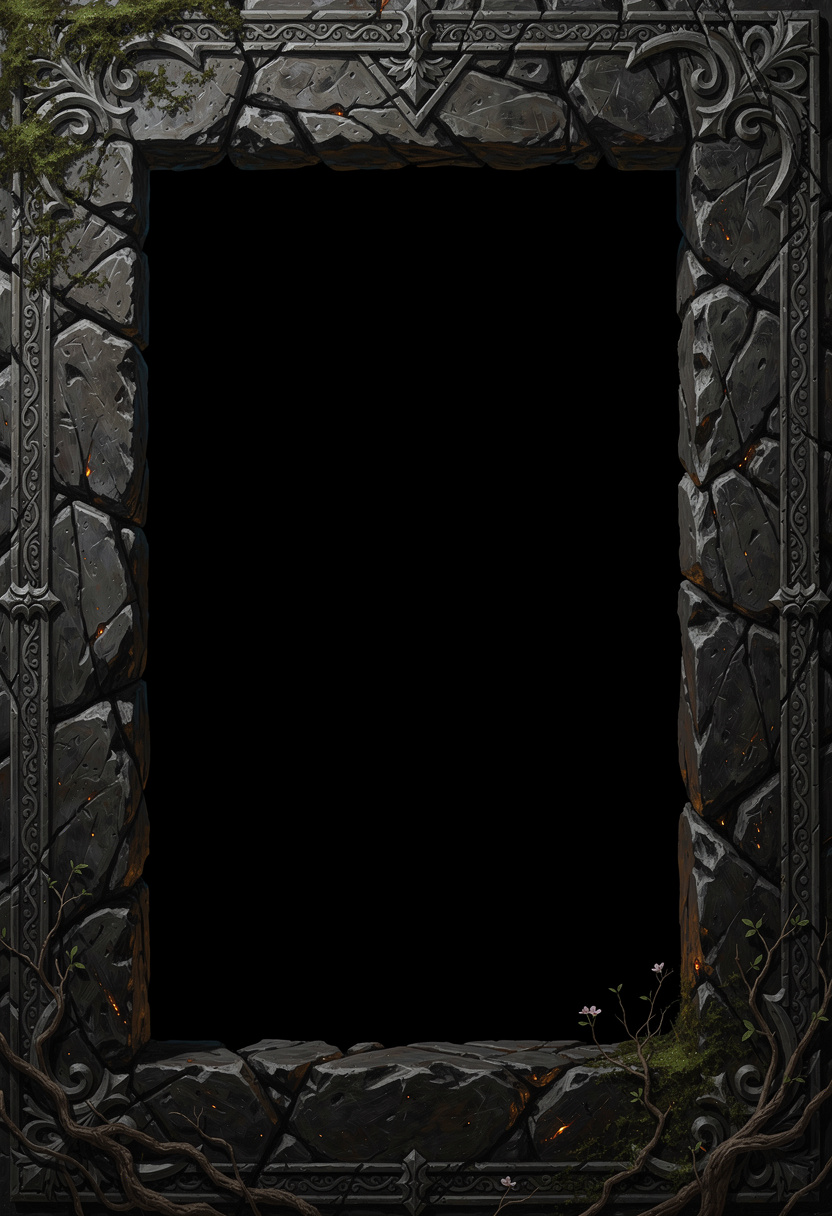
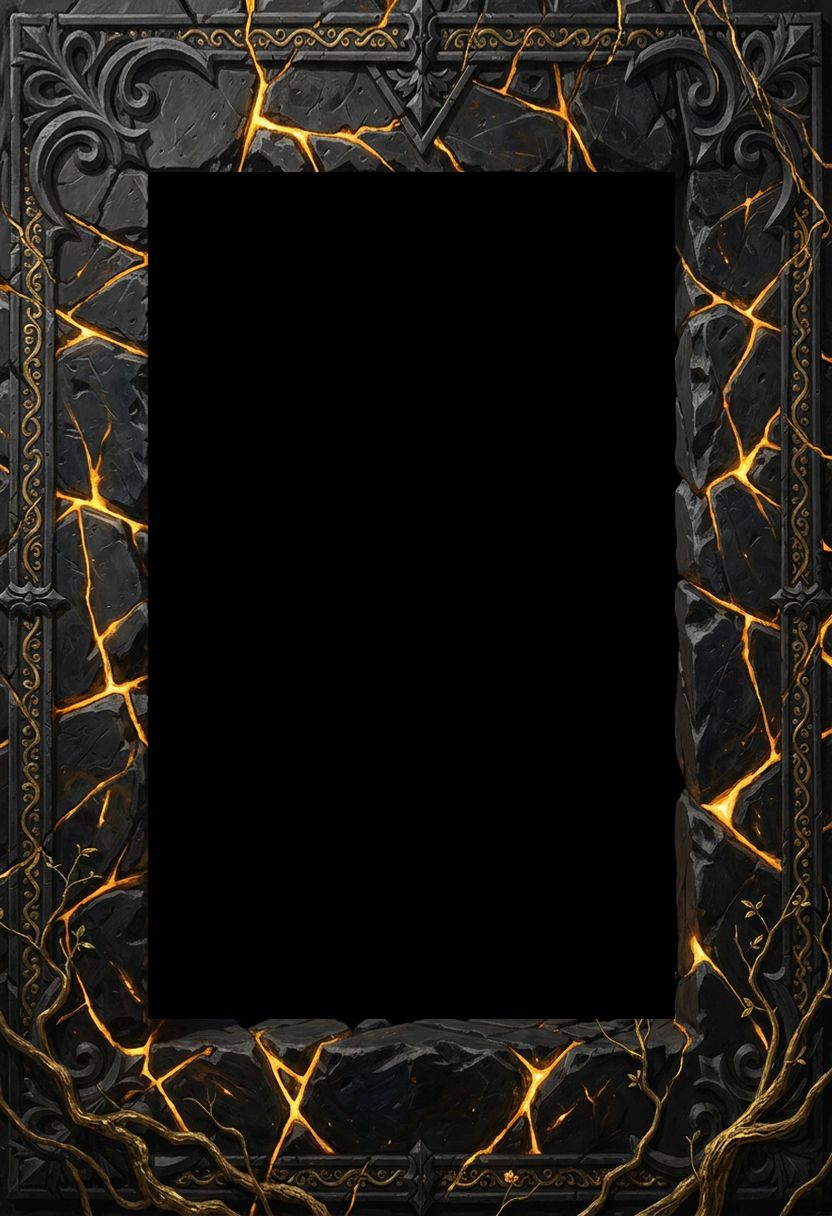
art: card border is OURS_4, basalt and molten gold (Trikzos' pick), cut to the existing 7% nine-slice; queue: PACKET H — text that clips, the hand fan, an art-format gate, and the rest of the APK size

Changed region(s): [[0.0, 0.0, 1.0, 1.0], [0.9375, 0.9688, 0.9688, 1.0]]

diff --git a/TASKS_QUEUE.md b/TASKS_QUEUE.md
@@ -12,6 +12,53 @@
 
 # ---- PHASE A FINISH — VERIFY, THEN SHIP ----
 
+# ---- PACKET H (2026-09-05, from the shipped build's own captures) ----
+
+- [ ] TASK-UI-FIT-1 — The readable-text pass overshot and now text is clipping off the screen. In the
+  duel capture from the shipped build: card names are so large they fill the card, every board card's
+  attack and vigor numerals are cut off by the bottom edge, and the End Turn button reads "End Tur"
+  because it runs off the right edge. Trikzos asked for readable, not broken. Keep the PACKET G sizes
+  as a TARGET, then add the rule that was missing: NOTHING may clip, overflow or overlap at either
+  2316x1080 or 2400x1080. Where a label cannot fit at the target size, it shrinks to fit its box (down
+  to a floor of 24px) rather than the box being overrun; where a control runs off screen, its anchor or
+  margin is wrong and must be fixed, never its text truncated. Card names get the existing name-autofit
+  treatment. Check every screen: title, choose-your-path, map, duel, reward, collection, settings, deck
+  forge, reliquary.
+  Acceptance: fresh captures of all nine screens at BOTH resolutions with nothing clipped — say in the
+  DONE line, screen by screen, what the largest text on it is and that it fits; ui_lint green; the End
+  Turn button fully on screen with its whole label.
+
+- [ ] TASK-DUEL-HAND-1 — AFTER: TASK-UI-FIT-1. The hand fan in the shipped capture shows ten cards
+  spilling past the bottom edge of the screen and overlapping each other so heavily that only the name
+  band of each is visible. Whatever the hand size, the fan must stay fully on screen with each card's
+  art readable — that is the part Trikzos cares about most ("we want the art to be the focus of the
+  hand"). Cap the fan width to the safe area, overlap only as much as needed, and scale the cards down
+  before you let them leave the screen. Do not change how many cards a player draws — this is layout.
+  Acceptance: captures at both resolutions with hands of 5, 8 and 10 cards, all fully on screen, art
+  visible on every card; ui_lint green.
+
+- [ ] TASK-ART-FORMAT-GATE-1 — Make the mistake that cost us a day impossible to repeat. 83 art files
+  were PNG bytes saved under a .webp name; Godot picks its importer by extension, so none of them ever
+  loaded in the game, and every import setting written to them was silently reverted. Add to
+  tools/art_check.py (and call it from finish_task.sh) a check that every file under
+  client/content/art has contents matching its extension — read the magic bytes, do not trust the name
+  — and that its .import file does not say valid=false. Any mismatch fails the gate with the file list.
+  Also fix the source: pipeline/gen_image_any.py writes whatever bytes come back under the requested
+  name, so make it re-encode to the requested format before saving.
+  Acceptance: the check catches a deliberately mislabelled test file and passes on the current tree;
+  finish_task.sh runs it; the DONE line states how many files were checked.
+
+- [ ] TASK-PERF-2 — AFTER: TASK-UI-FIT-1. Get the APK from 224MB to under 160MB. Fable already took it
+  from 310MB by repairing the art and capping imported sizes; what remains, measured from the package:
+  122.4MB of textures, 71.8MB of engine .so (untouchable), 11.6MB of static build libraries and 10.3MB
+  of .dll. Two levers left: (1) the card art cap is 640px —try 512 and compare a duel capture side by
+  side with the 640 one; ship 512 only if the difference is invisible at phone size. (2) the *.a static
+  libraries are still in the package despite an exclude_filter, because they are added by the export
+  step rather than being project files — find where they come from (assets/.godot/mono/publish/arm64)
+  and stop them being packaged.
+  Acceptance: before/after size, the two duel captures for the texture comparison, apk_preflight 9/9,
+  loop_smoke green.
+
 # ---- PACKET G (2026-09-05, Trikzos' notes on the alpha) — READ THE FIRST LINE OF EACH: these are his words turned into work ----
 
 - [x] TASK-INPUT-TOUCH-1 — THE GAME IS UNPLAYABLE ON A PHONE AND THIS IS THE TOP PRIORITY. Trikzos
